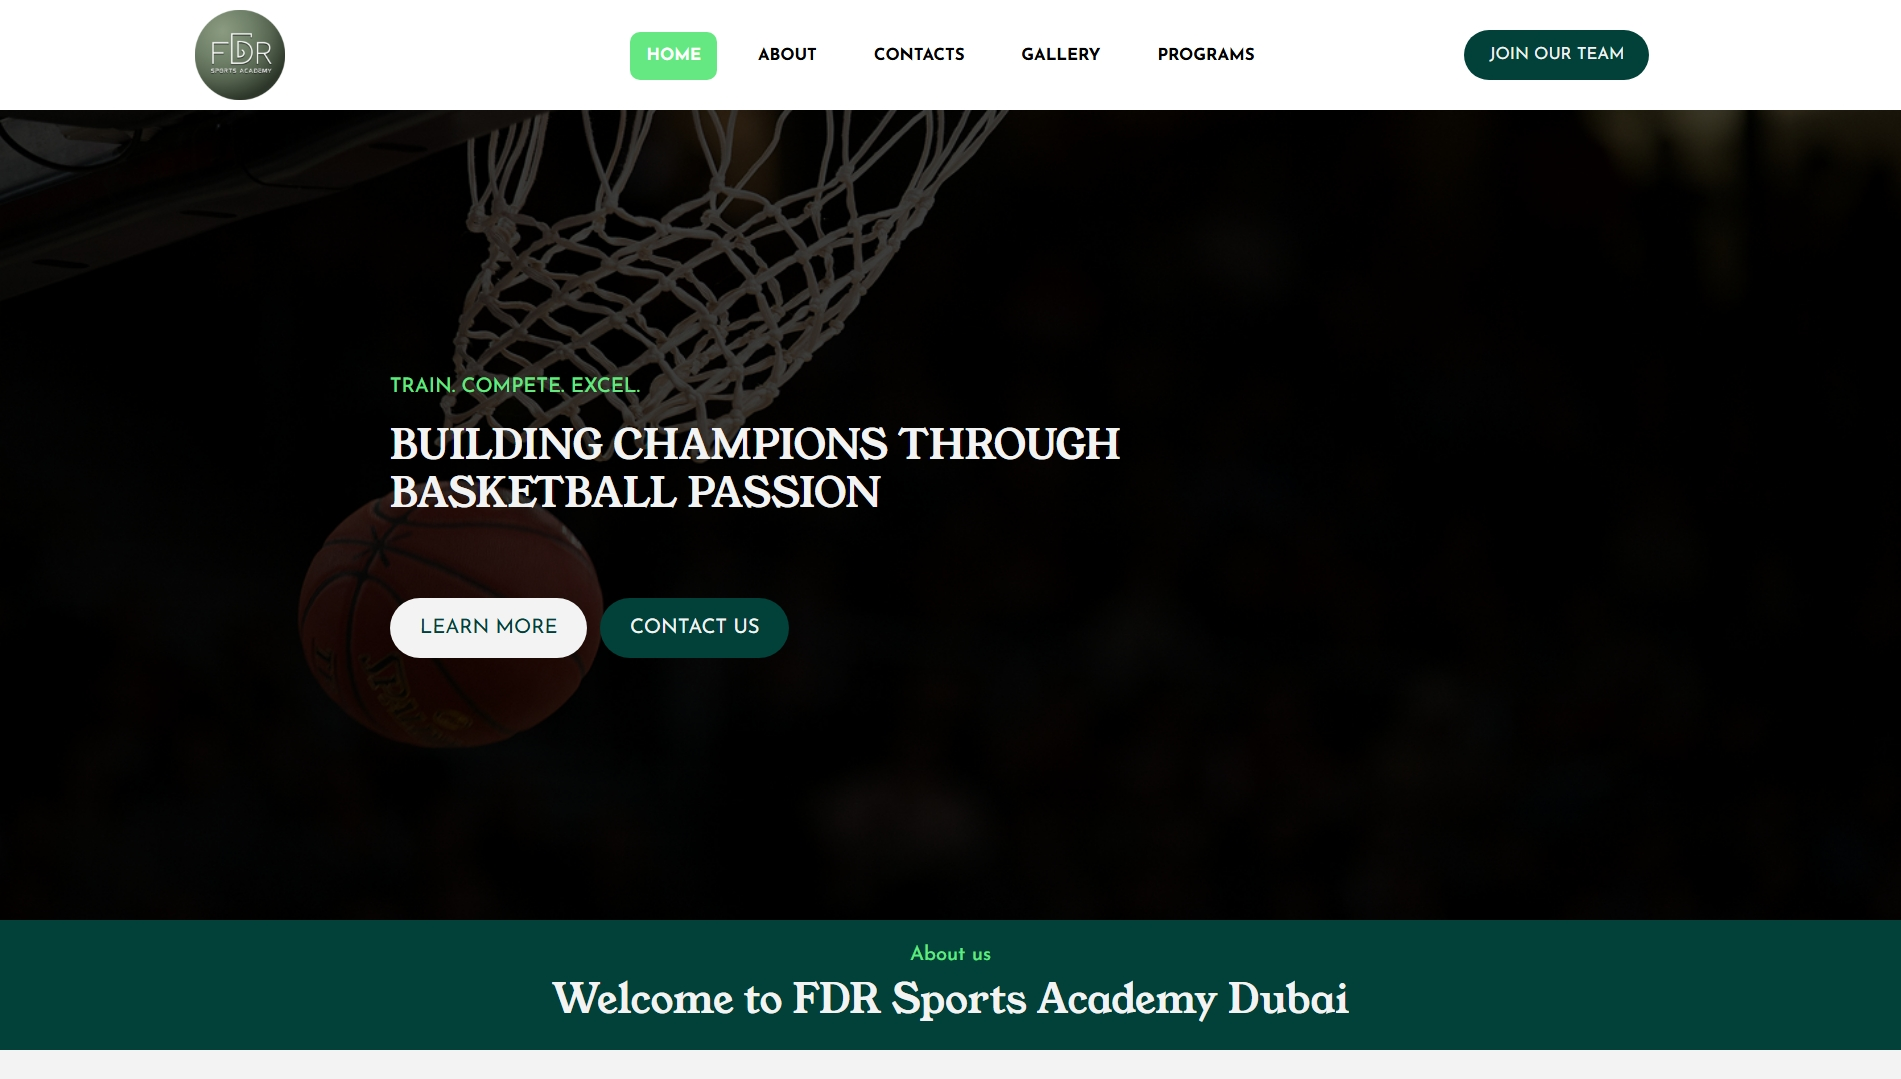
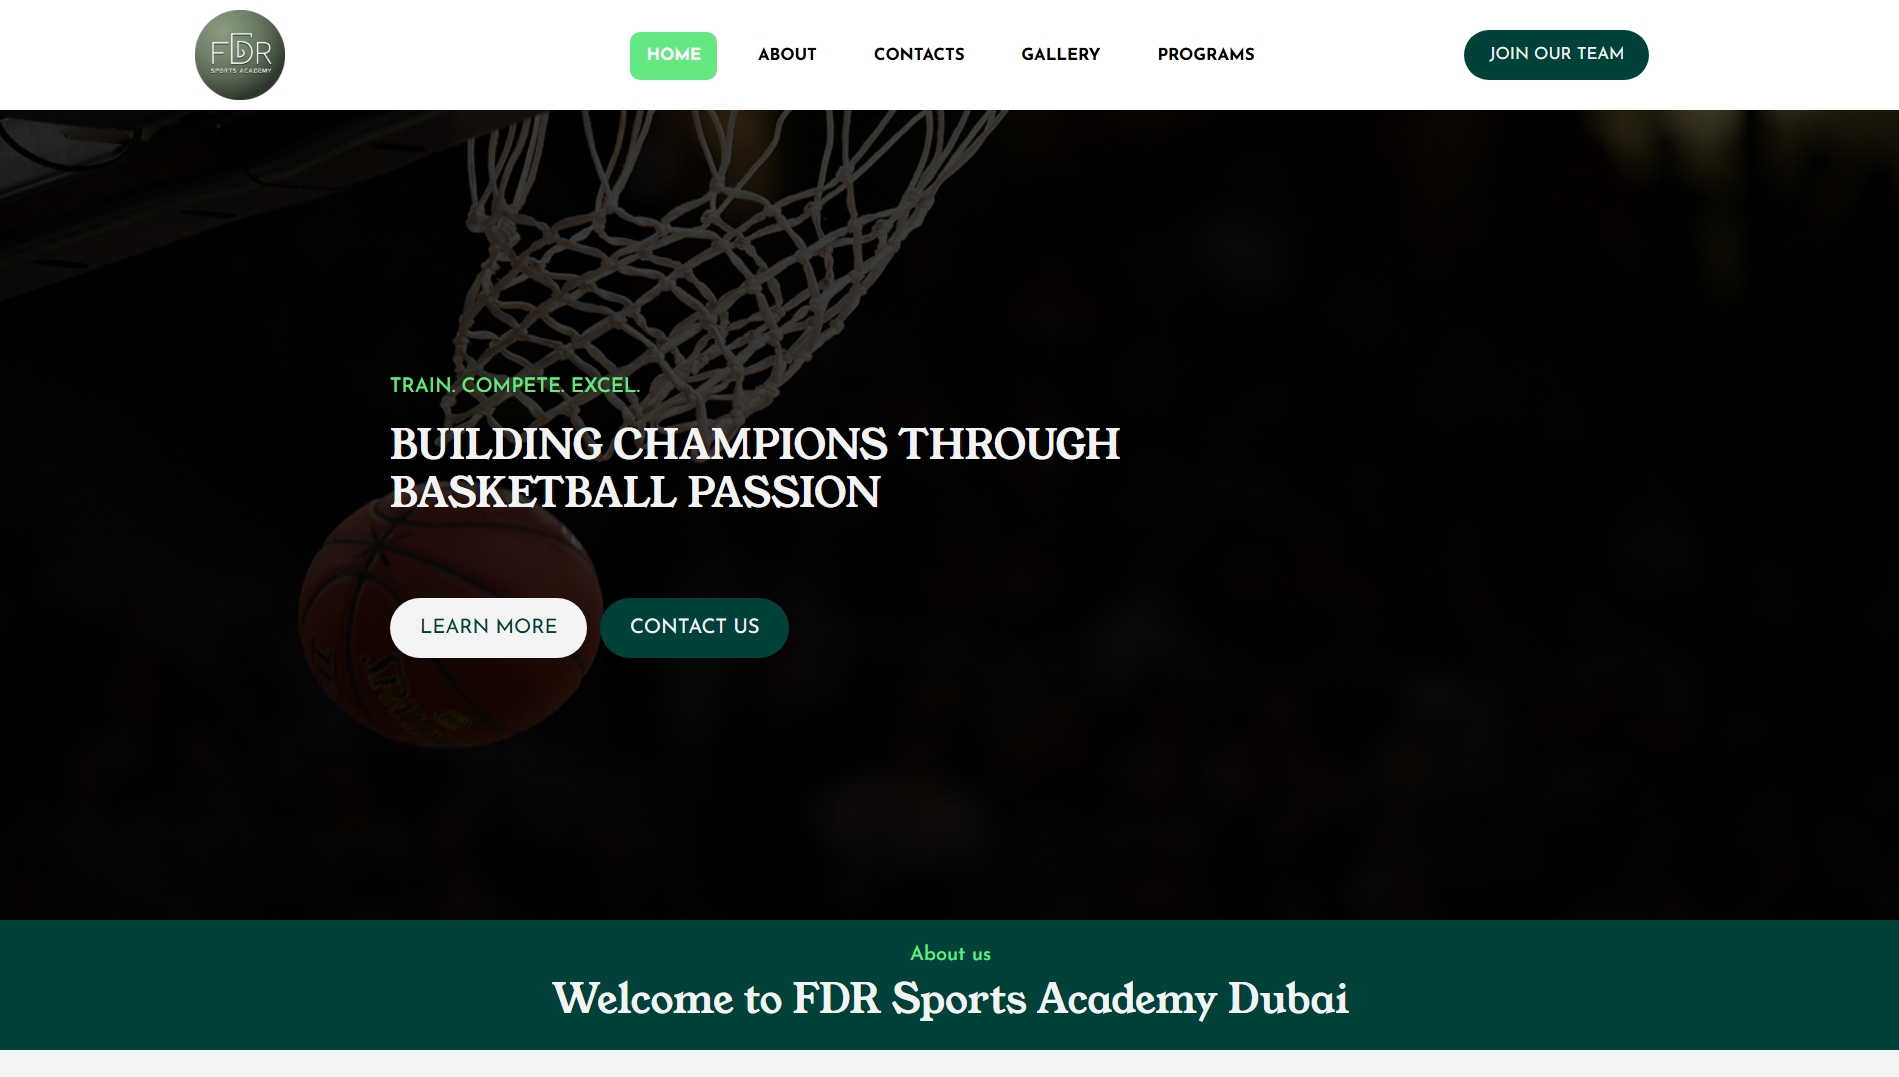
Fix image issue attempt #1

diff --git a/public/index.js b/public/index.js
@@ -102,7 +102,7 @@ async function createAltGallery2() { // Websites Section
 
         // Assigning the Details
         card.id = "card2";
-        image.src = website.url;
+        image.src = website.thumbnail;
 
         // [ CLICKABLE FUNCTION ]
         image.addEventListener('click', () => {